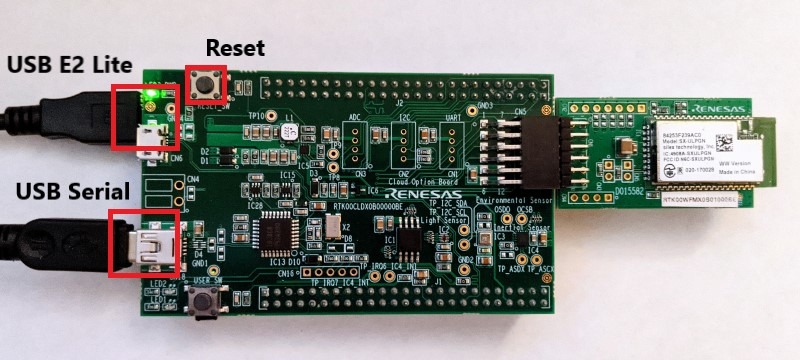
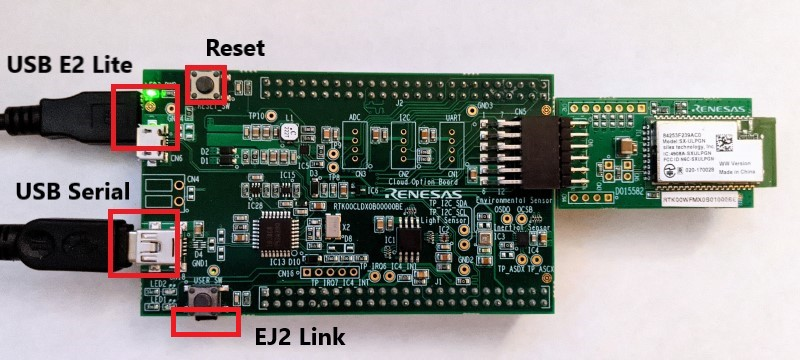
add remove EJ2 link step for cloud kit

Changed region(s): [[0.1875, 0.825, 0.4375, 0.9778]]

diff --git a/Renesas/RX65N_Cloud_Kit/readme.md b/Renesas/RX65N_Cloud_Kit/readme.md
@@ -167,11 +167,15 @@ After the build completes, confirm that the binary file was created in the follo
     
     ![Renesas RX65N reset, USB and E1/E2Lite](media/renesas-rx65n.jpg)
 
+1. Remove the **EJ2** link from the board to enable the E2 Lite debugger. The link is located underneath the **USER SW** button.
+    > **Warning:** Failure to remove this link will result in being unable to flash the device.
+
 1. Connect the **WiFi module** to the **Cloud Option Board**
 
 1. Using the first Mini USB cable, connect the **USB Serial** on the Renesas RX65N to your computer.
 
 1. Using the second Mini USB cable, connect the **USB E2 Lite** on the Renesas RX65N to your computer.
+
 
 ### Flash the image
 
